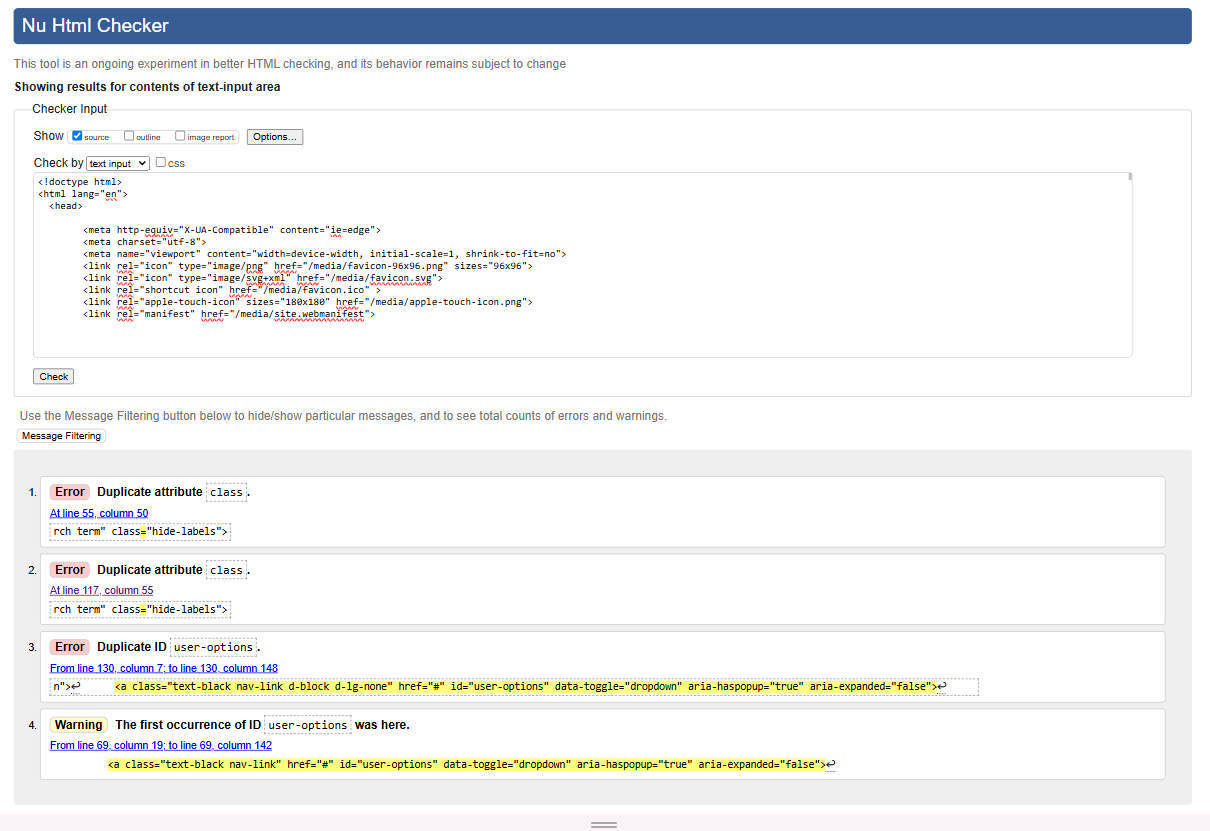
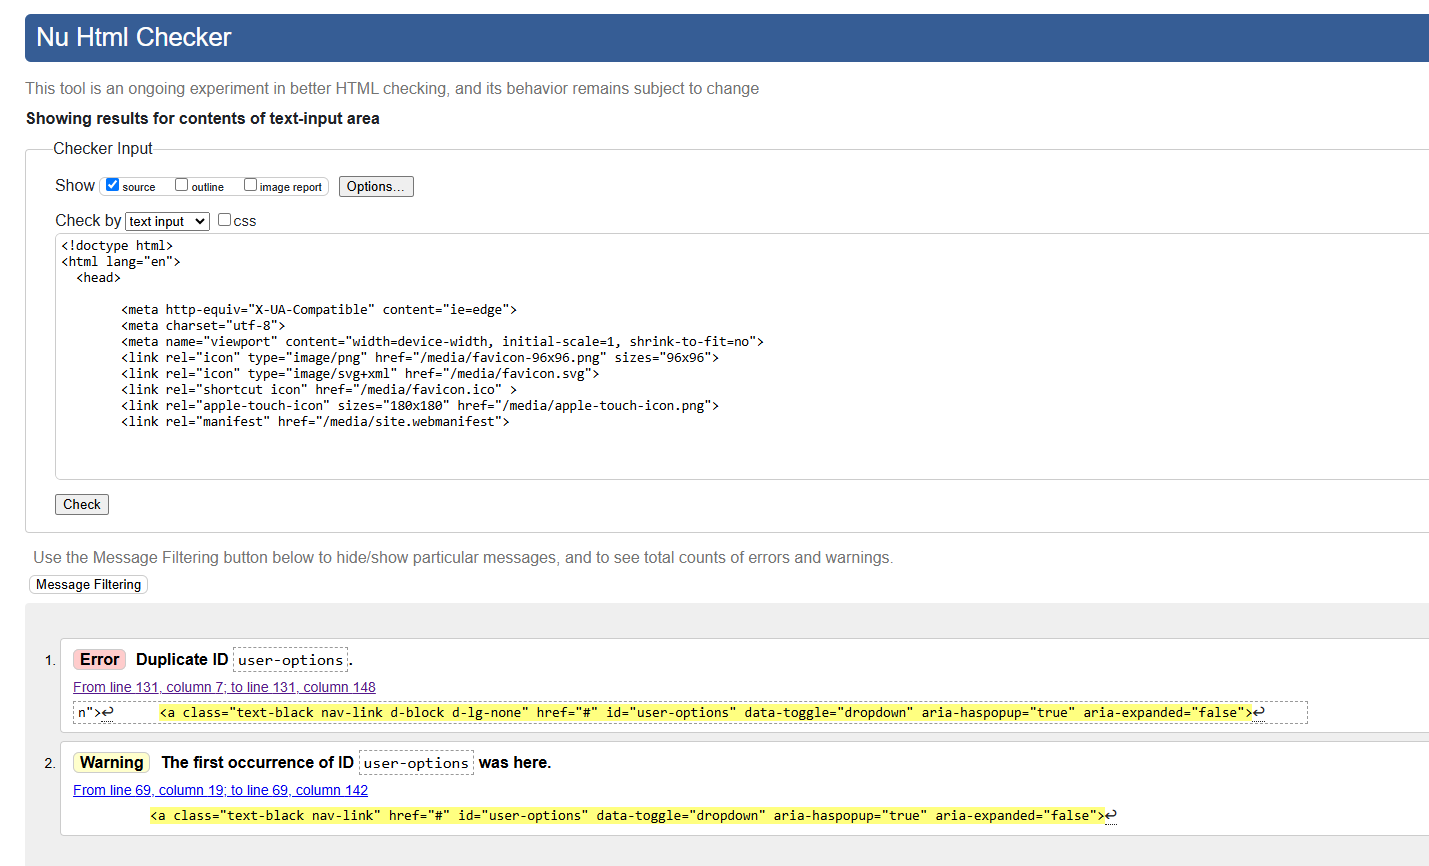
update readme with latest screens

Changed region(s): [[0.0, 0.0, 1.0, 0.5415], [0.0306, 0.5716, 0.8868, 0.9627], [0.4893, 0.9928, 0.5198, 1.0]]

diff --git a/templates/base.html b/templates/base.html
@@ -52,9 +52,9 @@
         <div class="col-12 col-lg-4 my-auto py-1 py-lg-0">
           <form method="GET" action="{% url 'products' %}">
               <div class="input-group w-100">
-                  <input class="form-control border border-info rounded-15" type="text"
+                  <input class="form-control border border-info rounded-15 hide-labels" type="text"
                    name="q" placeholder="Search our site"
-                   aria-label="search term" class="hide-labels">
+                   aria-label="search term">
                   <div class="input-group-append">
                       <button aria-label="search button" class="form-control btn btn-info ml-2 border border-black rounded-15" type="submit">
                           <span class="icon">
@@ -221,15 +221,15 @@
                     <h3 class="uppercase text-oreo footer-head-text d-none d-sm-block"><strong>Good to Know</strong></h3>
                     <div>
                     <p>
-                        <a class="footer-text" href="{% url 'about' %}" class="hvr-grow"
+                        <a class="footer-text hvr-grow" href="{% url 'about' %}"
                             aria-label="go to my comments, feedback page (opens in a new tab)">About Us</a>
                     </p>
                     <p>
-                        <a class="footer-text" href="{% url 'contact_us' %}" class="hvr-grow"
+                        <a class="footer-text hvr-grow" href="{% url 'contact_us' %}"
                             aria-label="direct link to email">Contact Us</a>
                     </p>
                     <p>
-                        <a class="footer-text" href="{% url 'privacy' %}" class="hvr-grow" 
+                        <a class="footer-text hvr-grow" href="{% url 'privacy' %}" 
                             aria-label="go to my comments, feedback page (opens in a new tab)">Privacy Notice</a>
                     </p>
                     </div>

diff --git a/templates/includes/mobile-top-header.html b/templates/includes/mobile-top-header.html
@@ -9,8 +9,8 @@
       <div class="dropdown-menu w-100 pl-3 pr-3 border border-0 rounded-0 mt-2" aria-labelledby="mobile-search">
           <form class="form" method="GET" action="{% url 'products' %}">
               <div class="input-group w-100">
-                  <input class="form-control border border-info rounded-15" type="text" name="q" placeholder="Search our site"
-                        aria-label="search term" class="hide-labels">
+                  <input class="form-control border border-info rounded-15 hide-labels" type="text" name="q" placeholder="Search our site"
+                        aria-label="search term">
                   <div class="input-group-append">
                       <button aria-label="search button" class="form-control form-control btn btn-search ml-2 border border-black rounded-15" type="submit">
                           <span class="icon">

diff --git a/templates/account/login.html b/templates/account/login.html
@@ -31,9 +31,9 @@ for a {{ site_name }} account and sign in below:{% endblocktrans %}</p>
 {% include "socialaccount/snippets/login_extra.html" %}
 
 {% else %}
-<p>{% blocktrans %}If you have not created an account yet, then please
+<p>{% blocktrans %}If you have not created an account yet, then please&nbsp;
 <a class="btn btn-success btn-sm rounded-15" href="{{ signup_url }}"><span class="text-white">
-  <i class=" fa-solid fa-user-plus fa-sm mr-2"></i>&nbsp;Sign Up</span></strong></a> first.{% endblocktrans %}</p>
+  <i class=" fa-solid fa-user-plus fa-sm mr-2"></i><strong>&nbsp;Sign Up</strong></span></a> first.{% endblocktrans %}</p>
 {% endif %}
 
 <form class="login" method="POST" action="{% url 'account_login' %}">

diff --git a/products/models.py b/products/models.py
@@ -1,5 +1,6 @@
 from django.db import models
-from django.core.validators import MaxValueValidator
+from django.core.validators import (
+    MaxValueValidator, MinValueValidator)
 
 
 class Category(models.Model):
@@ -26,7 +27,8 @@ class Product(models.Model):
     has_sizes = models.BooleanField(default=False, null=True, blank=True)
     price = models.DecimalField(max_digits=6, decimal_places=2)
     rating = models.DecimalField(max_digits=2, decimal_places=1, null=True,
-                                 validators=[MaxValueValidator(5.0)],
+                                 validators=[MaxValueValidator(5.0),
+                                             MinValueValidator(1.0)],
                                  blank=True)
     image_url = models.URLField(max_length=1024, null=True, blank=True)
     image = models.ImageField(null=True, blank=True)

diff --git a/profiles/views.py b/profiles/views.py
@@ -23,7 +23,7 @@ def profile(request):
                            'Profile Update failed. Ensure the form is valid.')
     else:
         form = UserProfileForm(instance=profile)
-    
+
     # Get all user's orders
     orders = profile.orders.all()
     # Gets all user's reviews from DB

diff --git a/README.md b/README.md
@@ -575,7 +575,7 @@ This was carried out periodically as each page was created and amended and then 
 
 -   [W3C Markup Validator](https://validator.w3.org/#validate_by_input)
  
- -  The use of Crispy Forms, django templates and django allauth produces errors flagged as duplicates. These are not genuine errors and can be safely ignored.
+ -  The use of a base.html template with a menu and a separate include for a mobile-nav header, produces warnings about a duplicate ID. This can be safely ignored
 
     <details><summary>Home Page</summary>
     <img src="leos_oreos\docs\images\testing\w3c-index.png">
@@ -593,6 +593,7 @@ This was carried out periodically as each page was created and amended and then 
     <details><summary>Sign Up Page</summary>
     <img src="leos_oreos\docs\images\testing\w3c-registration.png">
     </details>
+    django all-auth produces a 'ul' nested error in generated code. can be ignored.
 
     <details><summary>Login Page</summary>
     <img src="leos_oreos\docs\images\testing\w3c-login.png">
@@ -609,7 +610,7 @@ This was carried out periodically as each page was created and amended and then 
     <details><summary>Edit Product Page</summary>
     <img src="leos_oreos\docs\images\testing\w3c-edit-product.png">
     </details>
--   The use of Crispy Forms to render the input fields of the page cause some html errors. These can be safely ignored
+-   The use of Crispy Forms to render the input fields of the page cause some html errors. These can be safely ignored.
     
     <details><summary>Shopping Bag Page</summary>
     <img src="leos_oreos\docs\images\testing\w3c-shopping-bag.png">
@@ -618,6 +619,7 @@ This was carried out periodically as each page was created and amended and then 
     <details><summary>Checkout</summary>
     <img src="leos_oreos\docs\images\testing\w3c-html-checkout.png">
     </details>
+    django countries prodcues a placeholder error which can be ignored.
 
     <details><summary>Checkout Success Page</summary>
     <img src="leos_oreos\docs\images\testing\w3c-checkout-success.png">
@@ -851,97 +853,94 @@ The use of Crispy Forms in the Authorisations app (django allauth) throws up mis
 
 Some pages report heading levels skipped but I have chosen a specific design and layout and don't wish to use all heading levsl on each page or start a page with a h1. This doesn't affect site comprehension when navigated with a screen reader.
 
--   WCAG results:
+WCAG results:
 
-    <details><summary>Home Page</summary>
+-   <details><summary>Home Page</summary>
     <img src="leos_oreos\docs\images\testing\wcag-home.png">
     </details>
     <br>
 
-    <details><summary>Product Page</summary>
+-   <details><summary>Product Page</summary>
     <img src="leos_oreos\docs\images\testing\wcag-products.png">
     </details>
     <br>
 
-    <details><summary>Product Details Page</summary>
+-   <details><summary>Product Details Page</summary>
     <img src="leos_oreos\docs\images\testing\wcag-product-details.png">
     </details>
     <br>
 
-    <details><summary>Add Review Page</summary>
+-   <details><summary>Add Review Page</summary>
     <img src="leos_oreos\docs\images\testing\wcag-add-review.png">
     </details>
     <br>
 
-      <details><summary>Edit Review Page</summary>
+-   <details><summary>Edit Review Page</summary>
     <img src="leos_oreos\docs\images\testing\wcag-edit-review.png">
     </details>
     <br>
 
-    <details><summary>Shopping Bag Page</summary>
+-   <details><summary>Shopping Bag Page</summary>
     <img src="leos_oreos\docs\images\testing\wcag-shopping-bag.png">
     </details>
     <br>
 
-    <details><summary>Checkout Page</summary>
+-   <details><summary>Checkout Page</summary>
     <img src="leos_oreos\docs\images\testing\wcag-checkout.png">
     </details>
     <br>
 
-    <details><summary>Checkout Success Page</summary>
+-   <details><summary>Checkout Success Page</summary>
     <img src="leos_oreos\docs\images\testing\wcag-checkout-success.png">
     </details>
     <br>
 
-    <details><summary>About Page</summary>
+-   <details><summary>About Page</summary>
     <img src="leos_oreos\docs\images\testing\wcag-about.png">
     </details>
     <br>
 
-    <details><summary>Privacy Policy Page</summary>
+-   <details><summary>Privacy Policy Page</summary>
     <img src="leos_oreos\docs\images\testing\wcag-privacy.png">
     </details>
     <br>
     
-    <details><summary>Contact Us Page</summary>
+-   <details><summary>Contact Us Page</summary>
     <img src="leos_oreos\docs\images\testing\wcag-contact-us.png">
     </details>
     <br>
 
-    <details><summary>Search Results Page</summary>
+-   <details><summary>Search Results Page</summary>
     <img src="leos_oreos\docs\images\testing\wcag-search-results.png">
     </details>
     <br>
     
-    <details><summary>Registration Page</summary>
+-   <details><summary>Registration Page</summary>
     <img src="leos_oreos\docs\images\testing\wcag-registration.png">
     </details>
-    <br>
+WCAG reports an error with missing aria-labels on the Crispy Form. However these are audible in the screen reader test and are accurately named as placeholder.
+    There is a re-work option but it would unnecessarily complicate the code to fix a problem that isn't a genuine problem.
 
-    -   WCAG reports an error with missing aria-labels on the Crispy Form. However these are audible in the screen reader test and are accurately named as placeholder.
-    There is a re-work option but it would unnecessarilly complicate the code to fix a problem that isn't a genuine problem.
-    <br>
 
-    <details><summary>Login Page</summary>
+-   <details><summary>Login Page</summary>
     <img src="leos_oreos\docs\images\testing\wcag-login.png">
     </details
-    <br>
 
-    -    WCAG reports an error with missing aria-labels on the Crispy Form. However these are audible in the screen reader test and are accurately named as placeholder.
-    There is a re-work option but it would unnecessarilly complicate the code to fix a problem that isn't a genuine problem.
-    <br>
+WCAG reports an error with missing aria-labels on the Crispy Form. However these are audible in the screen reader test and are accurately named as placeholder.
+    There is a re-work option but it would unnecessarily complicate the code to fix a problem that isn't a genuine problem.
 
-    <details><summary>Logout Page</summary>
+
+-   <details><summary>Logout Page</summary>
     <img src="leos_oreos\docs\images\testing\wcag-logoff.png">
     </details>
     <br>
 
-    <details><summary>Profile Page</summary>
+-   <details><summary>Profile Page</summary>
     <img src="leos_oreos\docs\images\testing\wcag-profile.png">
     </details>
     <br>
    
-    <details><summary>Management Page</summary>
+-   <details><summary>Management Page</summary>
     <img src="leos_oreos\docs\images\testing\wcag-management.png">
     </details>
     <br>
